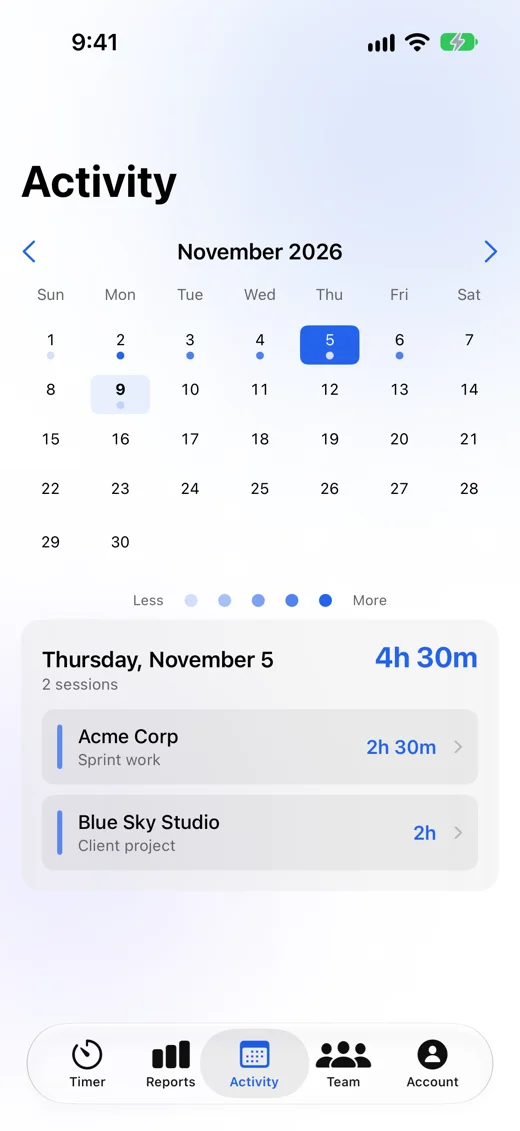
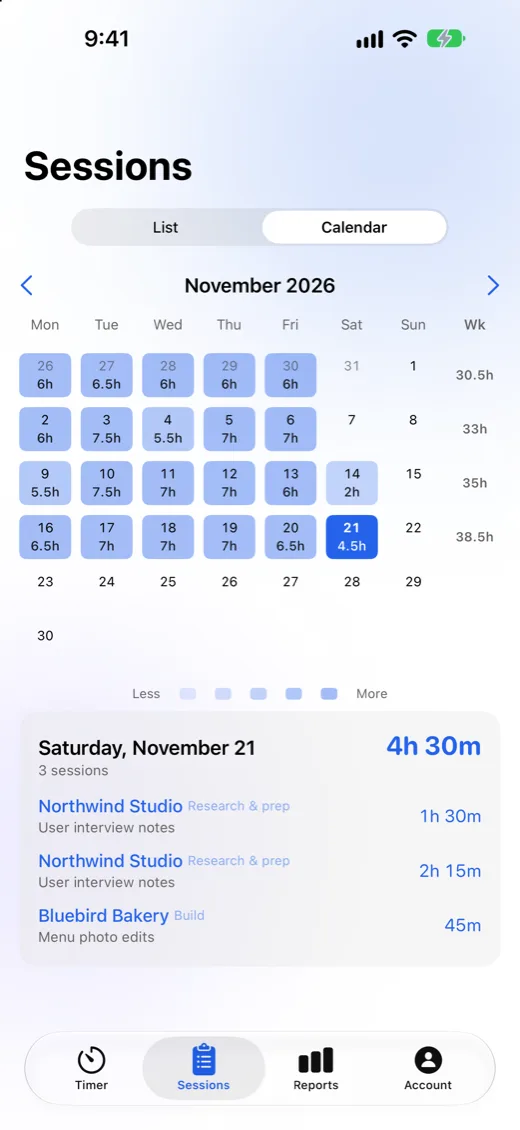
Tally case study: 1.22 screenshots

diff --git a/tally.html b/tally.html
@@ -204,11 +204,11 @@
         </div>
 
         <figure class="tally-hero-devices">
-            <img class="tally-hero-mac" src="assets/images/tallyios/app/mac-running.webp" alt="Tally on a MacBook: the timer running for Acme Corp on Jira ticket ACME-12" width="1760" height="1077" fetchpriority="high">
+            <img class="tally-hero-mac" src="assets/images/tallyios/app/mac-running.webp" alt="Tally on a Mac: the Timer showing 4 hours 30 minutes today, 38 hours 30 minutes this week and $4,067.50 earned, in one centered column" width="1760" height="1077" fetchpriority="high">
             <div class="phone-mockup">
                 <div class="phone-btns-left"></div>
                 <div class="phone-screen-static">
-                    <img src="assets/images/tallyios/app/iphone-running-119.webp" alt="Tally on iPhone: the timer running for Blue Sky Studio" width="520" height="1130">
+                    <img src="assets/images/tallyios/app/iphone-running-119.webp" alt="Tally on iPhone: the Timer showing 4 hours 30 minutes today, 38 hours 30 minutes this week and $4,067.50 earned, with weekly goals for Northwind Studio and Harbor &amp; Pine" width="520" height="1130">
                 </div>
             </div>
             <figcaption class="case-caption">The native Mac and iPhone apps</figcaption>
@@ -359,7 +359,7 @@
                     <div class="phone-mockup">
                         <div class="phone-btns-left"></div>
                         <div class="phone-screen-static">
-                            <img src="assets/images/tallyios/app/iphone-running-119.webp" alt="The running timer for Blue Sky Studio with Pause and Stop" loading="lazy" width="520" height="1130" style="width:100%;height:auto;display:block;border-radius:30px;">
+                            <img src="assets/images/tallyios/app/iphone-running-119.webp" alt="Tally on iPhone: the Timer showing 4 hours 30 minutes today, 38 hours 30 minutes this week and $4,067.50 earned, with weekly goals for Northwind Studio and Harbor &amp; Pine" loading="lazy" width="520" height="1130" style="width:100%;height:auto;display:block;border-radius:30px;">
                         </div>
                     </div>
                     <p>Timer</p>
@@ -368,7 +368,7 @@
                     <div class="phone-mockup">
                         <div class="phone-btns-left"></div>
                         <div class="phone-screen-static">
-                            <img src="assets/images/tallyios/app/iphone-picker-119.webp" alt="The client picker: Acme Corp from the Design Team, and personal clients Beta Inc, Blue Sky Studio and River North Group, with Start Tally" loading="lazy" width="520" height="1130" style="width:100%;height:auto;display:block;border-radius:30px;">
+                            <img src="assets/images/tallyios/app/iphone-picker-119.webp" alt="The client picker: recent clients Acme Corp, Bluebird Bakery, Harbor &amp; Pine and Northwind Studio, with Northwind Studio picked and Start Tally" loading="lazy" width="520" height="1130" style="width:100%;height:auto;display:block;border-radius:30px;">
                         </div>
                     </div>
                     <p>Client picker</p>
@@ -377,16 +377,16 @@
                     <div class="phone-mockup">
                         <div class="phone-btns-left"></div>
                         <div class="phone-screen-static">
-                            <img src="assets/images/tallyios/app/iphone-note-119.webp" alt="After stopping: the title Pricing page redesign and a note for the Blue Sky Studio session, type of work and billable" loading="lazy" width="520" height="1130" style="width:100%;height:auto;display:block;border-radius:30px;">
+                            <img src="assets/images/tallyios/app/iphone-note-119.webp" alt="A client's report link: show session notes and amounts, and a note for the viewer shown at the top of the client's report" loading="lazy" width="520" height="1130" style="width:100%;height:auto;display:block;border-radius:30px;">
                         </div>
                     </div>
-                    <p>Title and note</p>
+                    <p>Report link note</p>
                 </div>
                 <div class="screenshot-scroll-item">
                     <div class="phone-mockup">
                         <div class="phone-btns-left"></div>
                         <div class="phone-screen-static">
-                            <img src="assets/images/tallyios/app/iphone-reports-119.webp" alt="Reports for last week: Acme Corp 14 hours 30 minutes, Blue Sky Studio 6 hours and River North Group 4 hours, with each session listed" loading="lazy" width="520" height="1130" style="width:100%;height:auto;display:block;border-radius:30px;">
+                            <img src="assets/images/tallyios/app/iphone-reports-119.webp" alt="Reports for this week: 38 hours 30 minutes, $4,068 earned and 96% of a 40 hour goal, then hours by client and by type of work" loading="lazy" width="520" height="1130" style="width:100%;height:auto;display:block;border-radius:30px;">
                         </div>
                     </div>
                     <p>Reports</p>
@@ -395,10 +395,10 @@
                     <div class="phone-mockup">
                         <div class="phone-btns-left"></div>
                         <div class="phone-screen-static">
-                            <img src="assets/images/tallyios/app/iphone-activity-119.webp" alt="The Activity calendar with Thursday, November 5 selected: 4 hours 30 minutes across Acme Corp and Blue Sky Studio" loading="lazy" width="520" height="1130" style="width:100%;height:auto;display:block;border-radius:30px;">
+                            <img src="assets/images/tallyios/app/iphone-activity-119.webp" alt="The Sessions calendar for November with each day's hours and each week's total, and Saturday, November 21 selected: 4 hours 30 minutes" loading="lazy" width="520" height="1130" style="width:100%;height:auto;display:block;border-radius:30px;">
                         </div>
                     </div>
-                    <p>Activity</p>
+                    <p>Sessions calendar</p>
                 </div>
             </div>
 
@@ -624,7 +624,7 @@
                 <a href="https://apps.apple.com/us/app/tally-time-tracker/id6775275483?platform=vision&amp;pt=128288066&amp;ct=portfolio_tally_visionpro&amp;mt=8" target="_blank" rel="noopener noreferrer" style="display:inline-block;"><img src="assets/images/site/Download_on_the_App_Store_Badge_US-UK_RGB_blk_092917.svg" alt="Download Tally for Apple Vision Pro on the App Store" width="120" height="40" style="display:block;"></a>
             </div>
             <div style="flex:1.3;min-width:260px;">
-                <img src="assets/images/tallyios/app/visionpro-timer.webp" width="1600" height="900" loading="lazy" alt="Tally on Apple Vision Pro: a glass window in a living room with the sidebar, an empty timer ring, River North Group, Acme Corp and Blue Sky Studio goal progress, Start Timer, and an Open Timer Volume button below the window" style="width:100%;height:auto;display:block;border-radius:14px;filter:drop-shadow(0 24px 56px rgba(0,0,0,0.55));" />
+                <img src="assets/images/tallyios/app/visionpro-timer.webp" width="1600" height="900" loading="lazy" alt="Tally on Apple Vision Pro: a glass window in a living room with the sidebar and the Timer showing 4 hours 30 minutes today" style="width:100%;height:auto;display:block;border-radius:14px;filter:drop-shadow(0 24px 56px rgba(0,0,0,0.55));" />
             </div>
         </div>
     </div>
